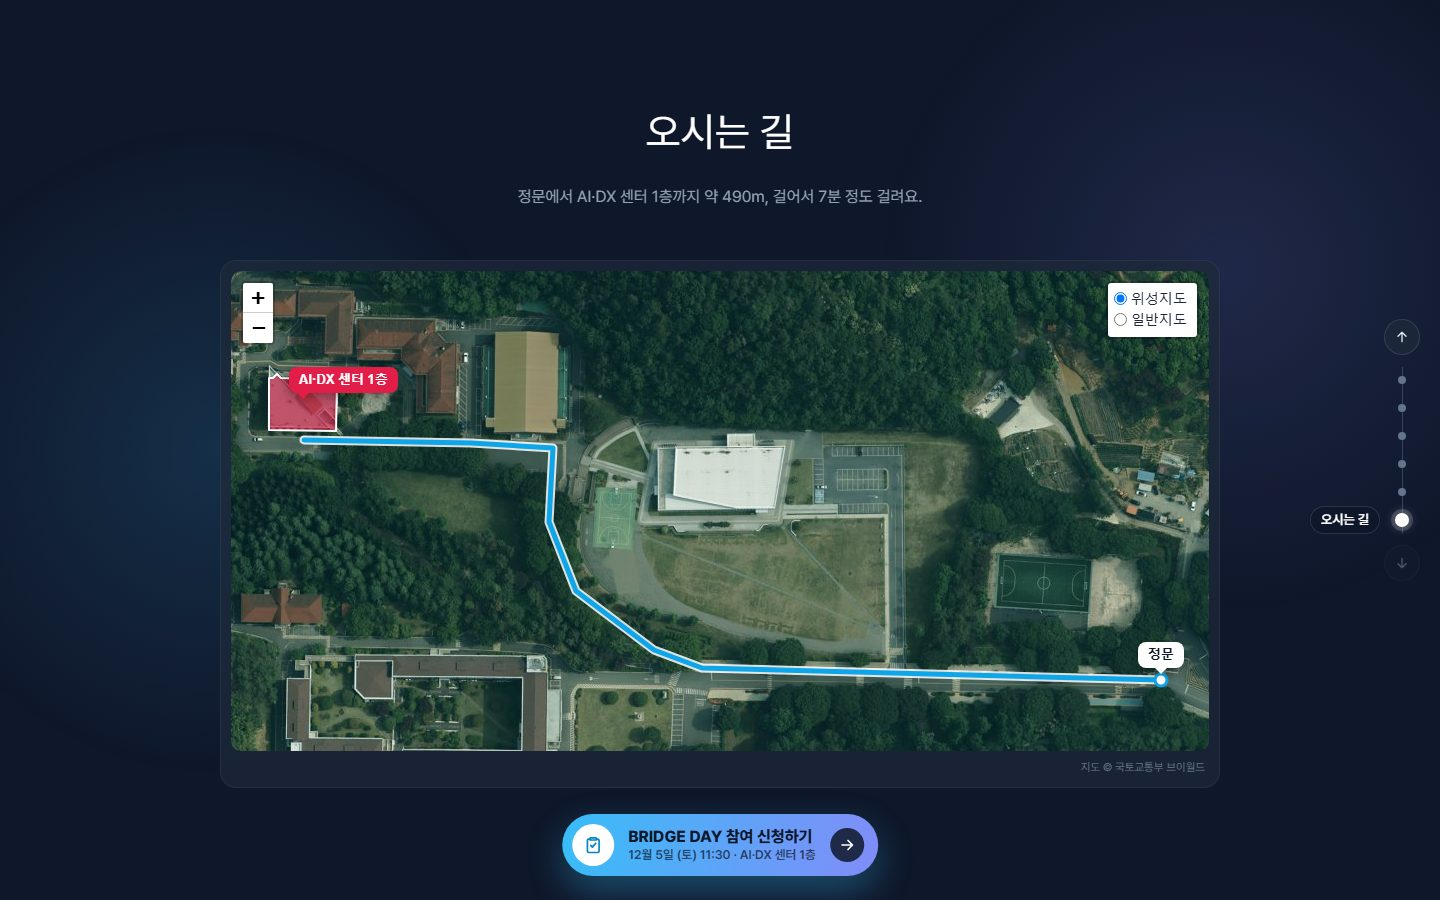
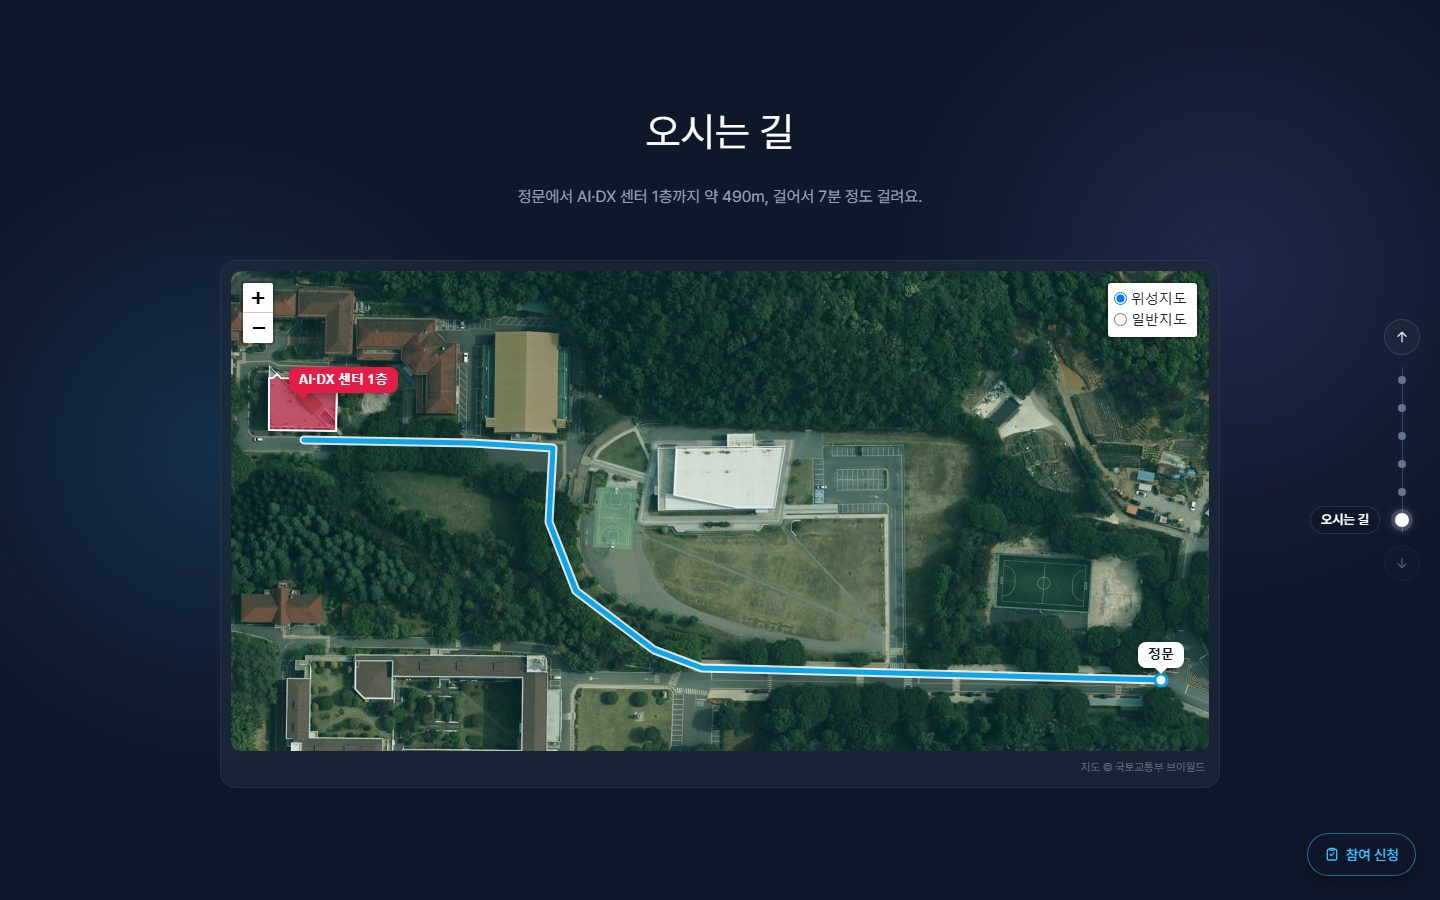
style: 따라다니는 참여 신청 버튼을 작은 배지로 변경
- 화면 가운데 큰 그라데이션 버튼 대신 오른쪽 아래 구석에 작은 '참여 신청' 버튼
- 2025 'Special Invitation' 배지와 같은 어두운 배경 + 하늘색 테두리 스타일

Changed region(s): [[0.375, 0.9022, 0.625, 1.0], [0.9062, 0.9333, 0.9688, 0.9644]]

diff --git a/src/index.css b/src/index.css
@@ -1043,99 +1043,51 @@ footer .sub-footer {
   background: #7dd3fc;
 }
 
-/* ===== 화면 아래 떠 있는 참여 신청 버튼 ===== */
+/* ===== 오른쪽 아래 작은 참여 신청 버튼 (2025 배지 스타일) ===== */
 .apply-bar {
   position: fixed;
-  left: 50%;
+  right: 24px;
   bottom: calc(24px + env(safe-area-inset-bottom));
   z-index: 1001;
-  display: flex;
+  display: inline-flex;
   align-items: center;
-  gap: 14px;
-  width: max-content;
-  max-width: calc(100% - 32px);
-  padding: 10px 14px 10px 10px;
-  border-radius: 999px;
-  color: #0f172a;
-  background: linear-gradient(100deg, var(--primary-color), var(--secondary-color));
-  box-shadow:
-    0 14px 34px rgba(56, 189, 248, 0.35),
-    0 4px 12px rgba(0, 0, 0, 0.35);
+  gap: 6px;
+  padding: 9px 16px;
+  border-radius: 50px;
+  font-size: 0.9rem;
+  font-weight: 600;
+  color: var(--primary-color);
+  background: rgba(15, 23, 42, 0.92);
+  border: 1px solid rgba(56, 189, 248, 0.5);
+  box-shadow: 0 6px 18px rgba(0, 0, 0, 0.35);
   opacity: 0;
   pointer-events: none;
-  transform: translate(-50%, 140%);
+  transform: translateY(12px);
   transition:
-    transform 0.4s cubic-bezier(0.22, 1, 0.36, 1),
-    opacity 0.3s,
-    box-shadow 0.2s;
+    transform 0.3s ease,
+    opacity 0.3s ease,
+    background-color 0.2s;
 }
 
 .apply-bar.is-visible {
   opacity: 1;
   pointer-events: auto;
-  transform: translate(-50%, 0);
+  transform: none;
 }
 
-.apply-bar.is-visible:hover {
-  transform: translate(-50%, -3px);
-  box-shadow:
-    0 18px 40px rgba(56, 189, 248, 0.45),
-    0 6px 14px rgba(0, 0, 0, 0.35);
+.apply-bar:hover {
+  background: rgba(30, 41, 59, 0.96);
 }
 
-.apply-bar__icon {
-  display: flex;
-  align-items: center;
-  justify-content: center;
-  flex-shrink: 0;
-  width: 42px;
-  height: 42px;
-  border-radius: 50%;
-  color: #0284c7;
-  background: #fff;
-}
-
-.apply-bar__text {
-  display: flex;
-  flex-direction: column;
-  line-height: 1.25;
-}
-
-.apply-bar__text strong {
-  font-size: 1rem;
-  font-weight: 800;
-}
-
-.apply-bar__text small {
-  font-size: 0.78rem;
-  font-weight: 600;
-  color: rgba(15, 23, 42, 0.72);
-}
-
-.apply-bar__arrow {
-  display: flex;
-  align-items: center;
-  justify-content: center;
-  flex-shrink: 0;
-  width: 34px;
-  height: 34px;
-  border-radius: 50%;
-  color: #fff;
-  background: rgba(15, 23, 42, 0.85);
-}
-
-/* 휴대폰: 화면 폭에 맞춘 넓은 버튼, 마지막 섹션이 가리지 않게 아래 여백 */
 @media (max-width: 640px) {
   .apply-bar {
-    bottom: calc(12px + env(safe-area-inset-bottom));
-    width: calc(100% - 32px);
-  }
-
-  .apply-bar__text {
-    flex: 1;
+    right: 16px;
+    bottom: calc(16px + env(safe-area-inset-bottom));
+    padding: 8px 14px;
+    font-size: 0.85rem;
   }
 
   #directions {
-    padding-bottom: 120px;
+    padding-bottom: 90px;
   }
 }

diff --git a/src/components/ApplyBar.tsx b/src/components/ApplyBar.tsx
@@ -1,6 +1,5 @@
 import { useEffect, useState } from "react";
 import { event } from "../data";
-import { formatDate } from "../lib/format";
 
 // 신청서 아이콘 (선 아이콘)
 export const ApplyIcon = ({ size = 20 }: { size?: number }) => (
@@ -11,14 +10,8 @@ export const ApplyIcon = ({ size = 20 }: { size?: number }) => (
   </svg>
 );
 
-const Arrow = () => (
-  <svg width="18" height="18" viewBox="0 0 24 24" fill="none" stroke="currentColor" strokeWidth="2.2" strokeLinecap="round" strokeLinejoin="round" aria-hidden="true">
-    <path d="M5 12h14M13 6l6 6-6 6" />
-  </svg>
-);
-
 /**
- * 화면 아래에 떠 있는 참여 신청 버튼
+ * 오른쪽 아래 구석에 작게 떠 있는 참여 신청 버튼
  * - 첫 화면의 신청 버튼이나 맨 아래 푸터의 신청 버튼이 보이는 동안에는 숨겨요 (같은 버튼이 이미 보이니까).
  */
 export const ApplyBar = () => {
@@ -41,8 +34,6 @@ export const ApplyBar = () => {
     return () => observer.disconnect();
   }, []);
 
-  const date = formatDate(event.date);
-
   return (
     <a
       className={`apply-bar${show ? " is-visible" : ""}`}
@@ -52,18 +43,8 @@ export const ApplyBar = () => {
       aria-hidden={!show}
       tabIndex={show ? 0 : -1}
     >
-      <span className="apply-bar__icon">
-        <ApplyIcon />
-      </span>
-      <span className="apply-bar__text">
-        <strong>BRIDGE DAY 참여 신청하기</strong>
-        <small>
-          {date ? `${date} ${event.startTime}` : event.startTime} · {event.venue}
-        </small>
-      </span>
-      <span className="apply-bar__arrow">
-        <Arrow />
-      </span>
+      <ApplyIcon size={16} />
+      참여 신청
     </a>
   );
 };
